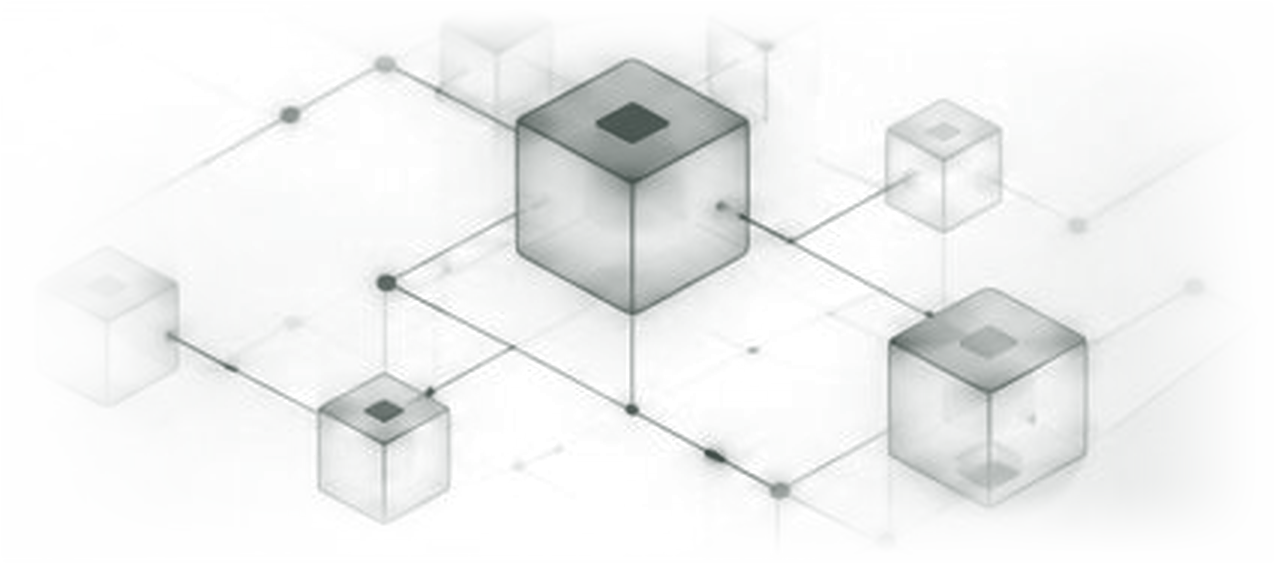
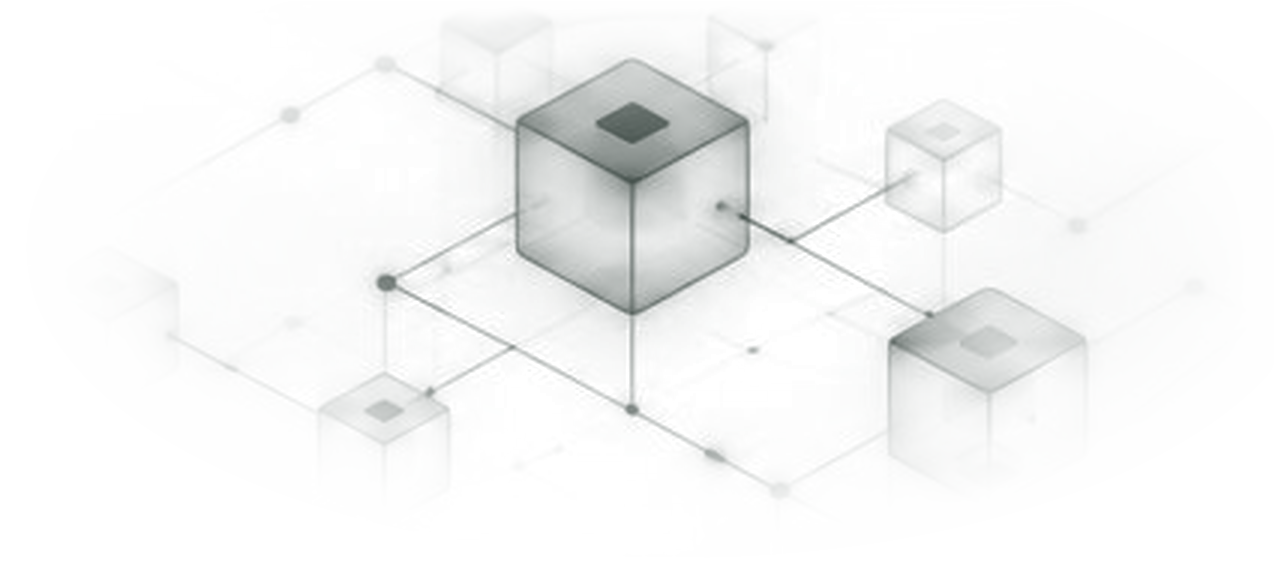
Switch Donor Overview backdrop to organic focal-point radial fade and elevate position

diff --git a/frontend/src/views/DashboardOverview.css b/frontend/src/views/DashboardOverview.css
@@ -1213,8 +1213,7 @@
   position: relative;
   margin-bottom: 28px;
   padding-top: 4px;
-  overflow: hidden;
-  border-radius: 14px;
+  overflow: visible;
 }
 
 .dbo-hero-content {
@@ -1225,26 +1224,27 @@
 /* Vercel Geist Theme-Reactive Exact-Reference 3D Glass Isometric Blockchain Backdrop */
 .dbo-hero-bg-mesh {
   position: absolute;
-  inset: 0;
+  top: -26px;
+  right: -8px;
+  bottom: 10px;
+  left: 0;
   pointer-events: none;
   user-select: none;
   z-index: 0;
   background-image: url('/donor-hero-mesh-light.png');
-  background-size: auto 96%;
-  background-position: right center;
+  background-size: auto 104%;
+  background-position: right top;
   background-repeat: no-repeat;
   mix-blend-mode: multiply;
-  opacity: 0.44;
-  -webkit-mask-image: linear-gradient(90deg, rgba(0, 0, 0, 0) 0%, rgba(0, 0, 0, 0.06) 28%, rgba(0, 0, 0, 0.82) 62%, rgba(0, 0, 0, 0.95) 90%, rgba(0, 0, 0, 0) 100%), linear-gradient(180deg, rgba(0, 0, 0, 0) 0%, rgba(0, 0, 0, 1) 16%, rgba(0, 0, 0, 1) 82%, rgba(0, 0, 0, 0) 100%);
-  -webkit-mask-composite: source-in;
-  mask-image: linear-gradient(90deg, rgba(0, 0, 0, 0) 0%, rgba(0, 0, 0, 0.06) 28%, rgba(0, 0, 0, 0.82) 62%, rgba(0, 0, 0, 0.95) 90%, rgba(0, 0, 0, 0) 100%), linear-gradient(180deg, rgba(0, 0, 0, 0) 0%, rgba(0, 0, 0, 1) 16%, rgba(0, 0, 0, 1) 82%, rgba(0, 0, 0, 0) 100%);
-  mask-composite: intersect;
+  opacity: 0.46;
+  -webkit-mask-image: radial-gradient(ellipse 44% 76% at 75% 38%, rgba(0, 0, 0, 1) 0%, rgba(0, 0, 0, 0.88) 32%, rgba(0, 0, 0, 0.34) 64%, rgba(0, 0, 0, 0) 92%);
+  mask-image: radial-gradient(ellipse 44% 76% at 75% 38%, rgba(0, 0, 0, 1) 0%, rgba(0, 0, 0, 0.88) 32%, rgba(0, 0, 0, 0.34) 64%, rgba(0, 0, 0, 0) 92%);
 }
 
 [data-theme="dark"] .dbo-hero-bg-mesh {
   background-image: url('/donor-hero-mesh-dark.png');
   mix-blend-mode: screen;
-  opacity: 0.48;
+  opacity: 0.5;
 }
 
 .dbo-hero-eyebrow-row {
